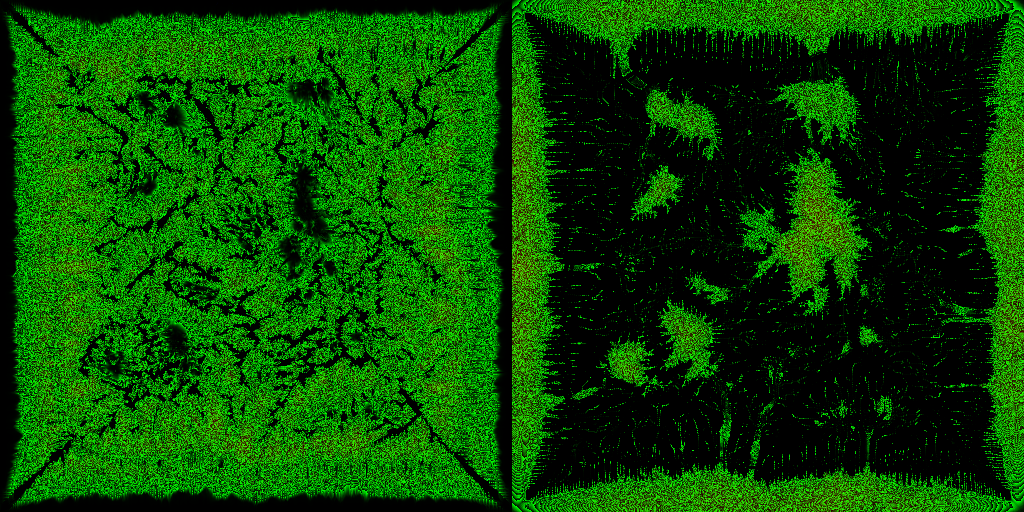
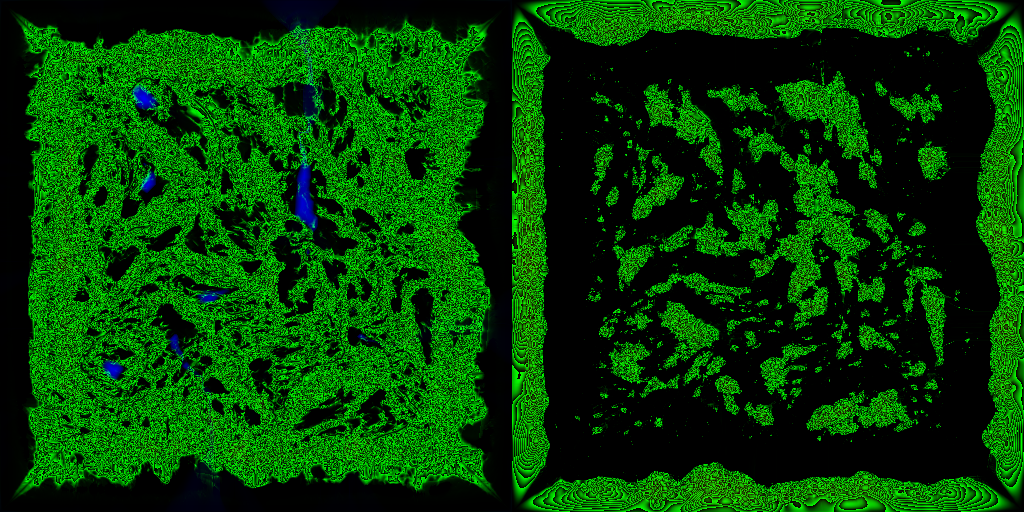
feat: six seeds

diff --git a/src/app/watershed/air/air-shaders.ts b/src/app/watershed/air/air-shaders.ts
@@ -106,6 +106,9 @@ export const AIR_FLOATS: ReadonlyArray<LookKeys<number>> = [
   'deckGrain',
   'deckRelief',
   'deckReach',
+  'deckWrap',
+  'deckSilver',
+  'deckSilverTightness',
   'windX',
   'windZ',
   'cloudHeight',
@@ -253,9 +256,19 @@ float cloudShade(vec3 at, vec3 sun, float weather) {
   return 1.0 - strength * cloud;
 }
 
-// the cloud of the deck lit from above: what it scatters toward the eye
-vec3 deckLight(vec3 sun, float weather) {
-  return deckColour * (sunLight(sun, weather) * max(sun.y, 0.0) + skyLight(vec3(0.0, 1.0, 0.0), sun, weather));
+// the share of the sun's light that cloud whose top faces this way sends toward an eye looking this way. cloud
+// is not a surface: light goes into it and comes out of the top whichever way the top faces, so a low sun still
+// lights it (deckWrap), and more of it goes on forward than back, so cloud seen toward the sun is brightest
+// (deckSilver, deckSilverTightness)
+float deckSun(vec3 normal, vec3 sun, vec3 look) {
+  float carried = mix(max(dot(normal, sun), 0.0), 1.0, deckWrap) * step(0.0, sun.y);
+  return carried + deckSilver * pow(max(dot(look, sun), 0.0), deckSilverTightness);
+}
+
+// the cloud of the deck lit from above: what it scatters toward an eye looking this way
+vec3 deckLight(vec3 sun, float weather, vec3 look) {
+  vec3 up = vec3(0.0, 1.0, 0.0);
+  return deckColour * (sunLight(sun, weather) * deckSun(up, sun, look) + skyLight(up, sun, weather));
 }
 
 // an antiderivative, in height, of a density that is 1 below top, falls to 0 over soft above it, and is 0 above
@@ -302,7 +315,7 @@ vec3 fogged(vec3 colour, vec3 eye, vec3 point, vec3 sun, float weather, float hu
   }
   vec3 scattered = (haze + mist) * skyGlow(point - eye, sun, weather);
   if (deck > 0.0) {
-    scattered += deck * deckLight(sun, weather);
+    scattered += deck * deckLight(sun, weather, normalize(point - eye));
   }
   scattered /= thickness;
   float passed = exp(-thickness);
@@ -369,12 +382,16 @@ void main() {
   vec2 slope = airNoise(at).yz + 0.5 * airNoise(at * 2.7 + 11.0).yz * 2.7;
   vec3 normal = normalize(vec3(-slope.x * deckRelief, 1.0, -slope.y * deckRelief));
 
-  float facing = max(dot(normal, sunDirection), 0.0);
+  vec3 look = normalize(vWorld - cameraPosition);
   float shade = cloudShade(vWorld, sunDirection, ${WEATHER});
   vec3 colour = deckColour * (
-    sunLight(sunDirection, ${WEATHER}) * facing * shade + skyLight(normal, sunDirection, ${WEATHER})
+    sunLight(sunDirection, ${WEATHER}) * deckSun(normal, sunDirection, look) * shade +
+    skyLight(normal, sunDirection, ${WEATHER})
   );
-  colour = fogged(colour, cameraPosition, vWorld, sunDirection, ${WEATHER}, 0.0);
+  // through the haze and not through itself: the deck's fog thins over deckSoft above this sheet, and a ray to the
+  // sheet crossed that first, at a low view four optical depths of it, so the billows drawn here were never seen.
+  // fogged as if it stood at the top of that layer, which is the same ray to within deckSoft of haze
+  colour = fogged(colour, cameraPosition, vWorld + vec3(0.0, deckSoft, 0.0), sunDirection, ${WEATHER}, 0.0);
 
   // gone into the sky long before its edge, so where it ends is never seen
   float distant = smoothstep(0.5 * deckReach, 0.9 * deckReach, length(vWorld.xz));

diff --git a/src/app/watershed/air/air-calibration.ts b/src/app/watershed/air/air-calibration.ts
@@ -70,6 +70,14 @@ export interface IAirLook {
   readonly deckRelief: number;
   /** how far out it is drawn, metres; it is faded into the sky well before the edge */
   readonly deckReach: number;
+  /**
+   * cloud is lit through, not only on: the share of the sun's full light its top gets whichever way it faces,
+   * so a low sun still lights the deck. 0 is a surface, which a 10 degree sun leaves at a sixth of its light
+   */
+  readonly deckWrap: number;
+  /** the extra light it sends on forward, toward an eye looking at the sun, and how tight round the sun, as an exponent */
+  readonly deckSilver: number;
+  readonly deckSilverTightness: number;
 
   /** the wind that carries the deck and the clouds overhead, metres a second along x and along z */
   readonly windX: number;
@@ -119,12 +127,12 @@ export const AIR_LOOK: IAirLook = {
   warmthElevation: 0.5,
   sunGlow: [0.5, 0.36, 0.22],
   glowTightness: 24,
-  duskSky: 0.5,
+  duskSky: 0.85,
   duskElevation: 0.5,
   groundBounce: 0.08,
 
   hazeStorm: 2e-4,
-  hazeClear: 3e-5,
+  hazeClear: 5e-5,
   fogBase: 0,
   fogFalloff: 900,
 
@@ -138,14 +146,17 @@ export const AIR_LOOK: IAirLook = {
   deckGrain: 1800,
   deckRelief: 0.5,
   deckReach: 60000,
+  deckWrap: 0.4,
+  deckSilver: 1.5,
+  deckSilverTightness: 8,
 
   windX: 9,
   windZ: 4,
   cloudHeight: 4500,
   cloudGrain: 2400,
   cloudCover: 0.55,
-  cloudSoftness: 0.12,
-  cloudShadow: 0.7,
+  cloudSoftness: 0.3,
+  cloudShadow: 0.25,
 
   rainSlant: 0.18,
   rainColumn: 9,

diff --git a/src/app/watershed/composer/composer-calibration.ts b/src/app/watershed/composer/composer-calibration.ts
@@ -13,13 +13,19 @@ export const BLOOM_THRESHOLD = 1;
 export const BLOOM_STRENGTH = 0.35;
 export const BLOOM_RADIUS = 0.6;
 
-/** the identity grade: no lift, no gain, midtones where the tone mapping put them */
+/**
+ * set against the hero frame, and small: the light already makes the picture warm where the low sun reaches and
+ * blue where only the sky does, so the grade leans the same two ways and adds no colour of its own. the shadow
+ * tint is the clear zenith (`clearZenith` in the air's calibration, linear 0.035, 0.07, 0.16) as display values,
+ * and the highlight tint the low sun's gold; the midtones open a little because the land's shaded side, which
+ * the hero shot shows half of, sat heavy at the identity
+ */
 export const GRADE: IGrade = {
-  shadowTint: 0x000000,
-  shadowStrength: 0,
-  highlightTint: 0xffffff,
-  highlightStrength: 0,
-  gamma: 1,
+  shadowTint: 0x334a70,
+  shadowStrength: 0.04,
+  highlightTint: 0xffcc88,
+  highlightStrength: 0.05,
+  gamma: 1.08,
 };
 
 /** lighter than murmuration's: this picture is mostly mid-tones, where grain reads as noise sooner */
